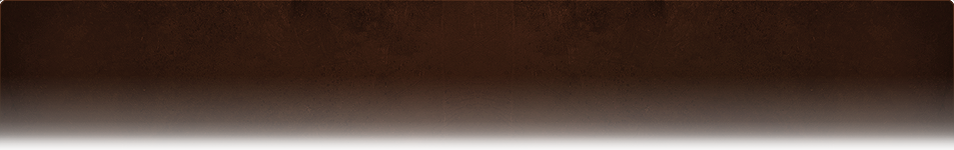
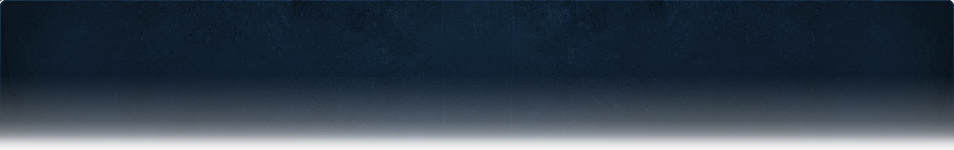
Web/Fix: Finished the Status New Style. + Minor Fixes.

diff --git a/wow/static/Themes/Default/css/wow.css b/wow/static/Themes/Default/css/wow.css
@@ -133,7 +133,7 @@ tr:hover .fansite-link,
 .ui-button span,
 .ui-cancel span { line-height: 38px;}
 .ui-button span { font-family: Arial, sans-serif; }
-.button1 span { background-image: url("../images/buttons/button-1.png"); background-repeat: no-repeat; color: #ffae00 }
+.button1 span { background-image: url("../images/buttons/button-1.png"); background-repeat: no-repeat; color: #2A8AC1 }
 .button1.hover span,
 .button1:hover span { color: #fff }
 .button1.disabled span,
@@ -361,7 +361,7 @@ tr:hover .fansite-link,
 #content .content-trail { height: 30px; padding: 10px 0 0 22px; }
 #content .content-header { padding: 25px; padding-top: 35px; }
 #content .content-header .header { color: #efe3d2; font: 52px/85% "Palatino Linotype", Georgia, Times, sans-serif; letter-spacing: -1.5px; text-shadow: #241209 0 0 5px; }
-#content .content-header .desc { width: 50%; margin-top: 25px; color: #A4704E; }
+#content .content-header .desc { width: 50%; margin-top: 25px; color: #FFFFFF; text-shadow: #030D33 0 0 5px; }
 #content .content-box-w434 { background: url("../images/content/box-w434-top.jpg") 0 0 no-repeat #21130a; width:434px; }
 #content .content-box-w434 .wrapper { background: url("../images/content/box-w434-bottom.jpg") 0 100% no-repeat; width:100%; padding:16px 0 19px 0; letter-spacing:-0.5px;}
 #content .content-box-w434 .inner-wrapper {margin:0 45px 0 19px;}
@@ -445,24 +445,23 @@ tr:hover .fansite-link,
 /* tables */
 .table { padding-bottom: 2px; background: url("../images/content/table-bg.gif") 50% 100% no-repeat }
 
-	/* real table */
-	.table table { width: 100%; table-layout: auto; }
-	.table thead th { padding: 0; background: #4d1a08 url("../images/content/table-header.gif") 0 100% repeat-x; border-bottom: 1px solid #06131B; white-space: nowrap; }
-	.table thead th, .table thead th a { color: #F5EBD1; font-weight: bold;}
-	.table thead th.align-center .sort-tab, .table thead th.align-center .sort-link { text-align: center; }
-	.table thead th.align-right .sort-tab, .table thead th.align-right .sort-link { text-align: right; }
-	.table tfoot th { padding: 10px }
-	.table tbody td { padding: 10px; color: #f5ebd1; }
-	.table tbody .row1 td { background: #2b1507; border-top: 1px solid #31190a }
-	.table tbody .row2 td { background: #231207; border-top: 1px solid #30190b }
-	.table tbody tr:hover td,
-	.table tbody tr.row-active td { background: #180c04; color: #fff }
-	.table tbody tr.no-results td { padding: 25px 50px; text-align: center; background: #231207; color: #C09A67 }
-	.table tbody tr.disabled td { opacity: 0.33333; }
-	.table.full-width td:first-child { padding-left: 20px; }
-	.table.full-width td:last-child { padding-right: 20px; }
-
-	.table em { color: #d2ae89; font-style: normal; }
+/* real table */
+.table table { width: 100%; table-layout: auto; }
+.table thead th { padding: 0; background: #081B26 url("../images/content/table-header.gif") 0 100% repeat-x; border-bottom: 1px solid #06131B; white-space: nowrap; }
+.table thead th, .table thead th a { color: #F5EBD1; font-weight: bold;}
+.table thead th.align-center .sort-tab, .table thead th.align-center .sort-link { text-align: center; }
+.table thead th.align-right .sort-tab, .table thead th.align-right .sort-link { text-align: right; }
+.table tfoot th { padding: 10px }
+.table tbody td { padding: 10px; color: #f5ebd1; }
+.table tbody .row1 td { background: #102033; border-top: 1px solid #0D1A28; }
+.table tbody .row2 td { background: #231207; border-top: 1px solid #30190b; }
+.table tbody tr:hover td,
+.table tbody tr.row-active td { background: #070F16; color: #fff }
+.table tbody tr.no-results td { padding: 25px 50px; text-align: center; background: #231207; color: #C09A67 }
+.table tbody tr.disabled td { opacity: 0.33333; }
+.table.full-width td:first-child { padding-left: 20px; }
+.table.full-width td:last-child { padding-right: 20px; }
+.table em { color: #d2ae89; font-style: normal; }
 
 	/* list version */
 	.table dl { padding: 0 10px; clear: both; height: 38px; line-height: 38px; background-color: #231207}
@@ -490,8 +489,8 @@ tr:hover .fansite-link,
 .table-filters.inline .filter-buttons { padding-top: 10px; }
 
 .table .sort-link,
-.table .sort-tab { display: block; padding: 8px 10px; text-align: left; border-left: 1px solid #7c2804; border-top: 1px solid #7c2804; border-right: 1px solid #391303 }
-.table .sort-link:hover { color: #fff; background: #6a240b url("../images/content/table-header-hover.gif") 0 100% repeat-x; border-top-color: #af3900; border-left-color: #af3900 }
+.table .sort-tab { display: block; padding: 8px 10px; text-align: left; border-left: 1px solid #1C577A; border-top: 1px solid #1C577A; border-right: 1px solid #1C577A; }
+.table .sort-link:hover { color: #fff; background: #184E6B url("../images/content/table-header-hover.gif") 0 100% repeat-x; border-top-color: #2B8CBC; border-left-color: #2B8CBC }
 .table .sort-link .arrow { padding-left: 10px; background: url("../images/content/table-sort-arrows.gif") 0 -10px no-repeat }
 .table .sort-link:hover .arrow { background-position: 0 -115px }
 .table .sort-link .arrow.up,
@@ -526,9 +525,9 @@ tr:hover .fansite-link,
 /* tab menu */
 .tab-menu { height: 30px }
 .tab-menu li { height: 30px; display: inline-block; margin-right: 3px }
-.tab-menu li a { float: left; display: block; height: 30px; line-height: 30px; padding: 0 10px; background: #2b1507; color: #ffae00; -moz-border-radius: 5px; -webkit-border-radius: 5px; border-radius: 5px; -moz-box-shadow: 0 0 5px #0e0905; -webkit-box-shadow: 0 0 5px #0e0905; box-shadow: 0 0 5px #0e0905; }
-.tab-menu li a:hover { color: #fff; background: #4e2f1b }
-.tab-menu li a.tab-active { background: #ffae00; font-weight: bold; color: #000; }
+.tab-menu li a { float: left; display: block; height: 30px; line-height: 30px; padding: 0 10px; background: #081B26; color: #2A8AC1; -moz-border-radius: 5px; -webkit-border-radius: 5px; border-radius: 5px; -moz-box-shadow: 0 0 5px #0e0905; -webkit-box-shadow: 0 0 5px #0e0905; box-shadow: 0 0 5px #0e0905; }
+.tab-menu li a:hover { color: #000000; background: #1A587A }
+.tab-menu li a.tab-active { background: #2A8AC1; font-weight: bold; color: #081B26; }
 
 /* wow colors */
 

diff --git a/game/status/index.php b/game/status/index.php
@@ -1,6 +1,8 @@
 <?php
-require_once("../../configs.php");?>
-
+require_once("../../configs.php");
+include_once("functions.d/GetGameTheme.php");
+$page_cat = "game";
+?>
 <!DOCTYPE html> 
 <html lang="en-gb">
 <!--[if lt IE 7]>      <html class="no-js lt-ie9 lt-ie8 lt-ie7"> <![endif]-->
@@ -12,13 +14,13 @@ require_once("../../configs.php");?>
 <meta content="IE=edge,chrome=1" http-equiv="X-UA-Compatible" />
 <meta name="description" content="<?php echo $website['description']; ?>">
 <meta name="keywords" content="<?php echo $website['keywords']; ?>">
-<link rel="shortcut icon" href="../../wow/static/local-common/images/favicons/wow.png" type="image/x-icon" />
-<link rel="stylesheet" href="../../wow/static/local-common/css/common.css?v17" />
-<link rel="stylesheet" href="../../wow/static/css/wow.css?v7" />
-<link rel="stylesheet" href="../../wow/static/css/status/realmstatus.css?v7" />
-<script src="../../wow/static/local-common/js/third-party/jquery-1.4.4-p1.min.js"></script>
-<script src="../../wow/static/local-common/js/core.js?v17"></script>
-<script src="../../wow/static/local-common/js/tooltip.js?v17"></script>
+<link rel="shortcut icon" href="<?php echo $website['root'];?>wow/static/local-common/images/favicons/wow.png" type="image/x-icon" />
+<?php GetGameTheme(); ?>
+<script src="http://code.jquery.com/jquery-1.10.1.min.js"></script>
+<script src="<?php echo $website['root']; ?>wow/static/local-common/js/third-party/jquery-1.4.4-p1.min.js"></script>
+<script src="<?php echo $website['root']; ?>wow/static/local-common/js/core.js?v15"></script>
+<script src="<?php echo $website['root']; ?>wow/static/local-common/js/tooltip.js?v15"></script>
+<script src="http://static.wowhead.com/widgets/power.js"></script>
 <style type="text/css">
 .Good {text-shadow: 0 1px 0 green, 0 0 3px green, 0 0 3px green, 0 0 8px green, 0 0 8px green; margin-top:3px;}
 .Chars {text-shadow: 1px 2px 6px #004;}
@@ -30,30 +32,10 @@ try { document.execCommand('BackgroundImageCache', false, true) } catch(e) {}
 //]]>
 </script>
 <![endif]-->
-<script type="text/javascript">
-//<![CDATA[
-Core.staticUrl = '../../wow/static';
-Core.sharedStaticUrl= '../../wow/static/local-common';
-Core.baseUrl = '../..//wow/en';
-Core.project = 'wow';
-Core.locale = 'en-gb';
-Core.buildRegion = 'eu';
-Core.shortDateFormat= 'dd/MM/Y';
-Core.loggedIn = false;
-Flash.videoPlayer = 'http://eu.media.blizzard.com/wow/player/videoplayer.swf';
-Flash.videoBase = 'http://eu.media.blizzard.com/wow/media/videos';
-Flash.ratingImage = 'http://eu.media.blizzard.com/wow/player/rating-pegi.jpg';
-var _gaq = _gaq || [];
-_gaq.push(['_setAccount', 'UA-544112-16']);
-_gaq.push(['_setDomainName', '.battle.net']);
-_gaq.push(['_trackPageview']);
-//]]>
-</script>
 </head>
 <body class="en-gb game-index"><div id="predictad_div" class="predictad" style="display: none; left: 788px; top: 104px; width: 321px; "></div>
-
 <div id="wrapper">
-<?php $page_cat="game"; include("../../header.php"); ?>
+<?php include("../../header.php"); ?>
 <div id="content">
 <div class="content-top">
 <div class="content-trail">
@@ -70,7 +52,7 @@ _gaq.push(['_trackPageview']);
 	</div>
 	<div id="realm-status">	
 <?php include("../../functions/status_nav.php"); ?>
-		<div class="filter-toggle">
+<div class="filter-toggle">
 			<a href="javascript:;" class="selected" onclick="RealmStatus.filterToggle(this)">	</a>
 		</div>
 	<span class="clear"><!-- --></span>
@@ -136,7 +118,7 @@ _gaq.push(['_trackPageview']);
 		</div>
 	</div>
 	<span class="clear"><!-- --></span>
-	<div id="all-realms">
+<div id="all-realms">
 	<div class="table full-width">
 		<table>
 			<thead>
@@ -263,20 +245,8 @@ _gaq.push(['_trackPageview']);
 					</tr>';
 					}
 
-					?>					
-				<!-- Removed or add the ( --> <!-- ) Only if you know what they are doing -->
-				<!-- Removed the ( --> <!-- ) Only if you know what they are doing -->
-				<!-- This is the 3rd (Third) Server on the Status, its Local -->
-					<!--<tr class="row1">
-						<td class="status" data-raw="up"><div class="status-icon up" onmouseover="Tooltip.show(this, 'Local')"></div></td>
-						<td class="name">Local</td>
-						<td class="type" data-raw="pvp"><span class="normal">(Normal)</span></td>
-						<td class="population" data-raw="Low"><span class="Low">Currently Local</span></td>
-						<td class="locale">Cataclysm</td>
-						<td class="queue" data-raw="false">Local</td>
-					</tr>-->
-				<!--Server No.3-->					
-				<tr class="no-results" style="display: none">
+					?>
+					<tr class="no-results" style="display: none">
 					<td colspan="6"><?php echo $status['noResults']; ?></td>
 				</tr>
 			</tbody>
@@ -288,5 +258,5 @@ _gaq.push(['_trackPageview']);
 </div>
 </div>
 <?php include("../../footer.php"); ?>
-<div id="fansite-menu" class="ui-fansite"></div><div id="menu-container"></div><ul class="ui-autocomplete ui-menu ui-widget ui-widget-content ui-corner-all" role="listbox" aria-activedescendant="ui-active-menuitem" style="z-index: 6; top: 0px; left: 0px; display: none; "></ul></body>
+</body>
 </html>

diff --git a/footer.php b/footer.php
@@ -188,7 +188,7 @@ echo '>'
 <small><?php echo $copyright3['copyright3']; ?>.<br /><?php echo $copyright['copyright']; ?> - <?php echo date('Y'); ?> <?php echo $website['title']; ?>.<br /><?php echo $copyright4['copyright4']; ?></small>
 </center>
 </div>
-<center><a class="powered" href="http://www.strawberry-pr0jcts.com/" ></a></center>
+<center><a class="powered" href="http://aquaflame.org" ></a></center>
 </div>
 <span class="clear"><!-- --></span>
 </div>
@@ -206,6 +206,21 @@ echo '>'
 <a href="<?php echo $website['root'];?>shop/" class="service-link"><?php echo $Services['Services']; ?></a>
 </li>
 <li class="service-cell service-account"><a href="<?php echo $website['root'];?>account/" class="service-link" tabindex="50" accesskey="3"><?php echo $Account['Account']; ?></a></li>
+<?php
+if (!isset($_SESSION['username']))	{
+	}
+else{
+	mysql_select_db($server_adb);
+	$check_query = mysql_query("SELECT gmlevel from account inner join account_access on account.id = account_access.id where username = '".strtoupper($_SESSION['username'])."'") or die(mysql_error());
+    $login = mysql_fetch_assoc($check_query);
+	if($login['gmlevel'] < 3){
+	}
+	else 
+	{
+	echo '<li class="service-cell service-account"><a href="'.$website['address'].''.$website['root'].'admin" class="service-link" tabindex="50" accesskey="3">ACP (Admin)</a></li>';
+	}
+}
+?>
 <li class="service-cell service-support service-support-enhanced">
 <a href="#support" class="service-link service-link-dropdown" tabindex="50" accesskey="4" id="support-link" onclick="return false" style="cursor: progress" rel="javascript"><?php echo $Support['Support']; ?><span class="no-support-tickets" id="support-ticket-count"></span></a>
 <div class="support-menu" id="support-menu" style="display:none;">
@@ -283,30 +298,14 @@ shim.style.display = 'block';
 <ul>
 <li><a href="#" tabindex="55"><?php echo $Retrieve['Retrieve']; ?></a></li>
 <li><a href="<?php GetClientLink(); ?>" tabindex="55"><?php echo $Client_down3['Client_down3']; ?></a></li>
-<?php
-if (!isset($_SESSION['username']))	
-	{
-	}
-else 
-{
-	mysql_select_db($server_adb);
-	$check_query = mysql_query("SELECT gmlevel from account inner join account_access on account.id = account_access.id where username = '".strtoupper($_SESSION['username'])."'") or die(mysql_error());
-    $login = mysql_fetch_assoc($check_query);
-	if($login['gmlevel'] < 3)
-		{
-	
-		}
-	else 
-	{
-	echo '<li><a href="'.$website['address'].''.$website['root'].'admin" tabindex="55">Admin Panel</li>';
-	}
-}
-
-
-?>
 </ul>
 </div>
 <span class="clear"><!-- --></span>
+</div>
+</div>
+</li>
+</ul>
+</div>
 <!--[if IE 6]> <iframe id="explore-shim" src="javascript:false;" frameborder="0" scrolling="no" style="display: block; position: absolute; top: 0; left: 9px; width: 409px; height: 400px; z-index: -1;"></iframe>
 <script type="text/javascript">
 //<![CDATA[
@@ -428,10 +427,8 @@ other: 'Other'
 };
 //]]>
 </script>
-
 <!doctype html>
 <script src="<?php echo $website['root'];?>wow/static/local-common/js/search.js?v37"></script>
-
 <script type="text/javascript">
 //<![CDATA[
 Core.load("<?php echo $website['root']; ?>wow/static/local-common/js/third-party/jquery-ui-1.8.6.custom.min.js?v37");
@@ -440,8 +437,6 @@ Login.embeddedUrl = '<?php echo $website['root']; ?>loginframe.php';
 });
 //]]>
 </script>
-
-
 <script src="<?php echo $website['root'];?>wow/static/local-common/js/menu.js?v37"></script>
 <script src="<?php echo $website['root'];?>wow/static/js/wow.js?v19"></script>
 <script type="text/javascript">
@@ -452,27 +447,9 @@ Menu.initialize('<?php echo $website['root'];?>data/menu.json');
 //]]>
 </script>
 <script src="<?php echo $website['root'];?>wow/static/local-common/js/cms.js?v37"></script>
-
 <!--[if lt IE 8]> <script type="text/javascript" src="/wow/static/local-common/js/third-party/jquery.pngFix.pack.js?v37"></script>
 <script type="text/javascript">
 //<![CDATA[
 $('.png-fix').pngFix(); //]]>
 </script>
 <![endif]-->
-<script type="text/javascript">
-//<![CDATA[
-(function() {
-var ga = document.createElement('script');
-var src = "https://ssl.google-analytics.com/ga.js";
-if ('http:' == document.location.protocol) {
-src = "http://www.google-analytics.com/ga.js";
-}
-ga.type = 'text/javascript';
-ga.setAttribute('async', 'true');
-ga.src = src;
-var s = document.getElementsByTagName('script');
-s = s[s.length-1];
-s.parentNode.insertBefore(ga, s.nextSibling);
-})();
-//]]>
-</script>

diff --git a/game/status/functions.d/GetGameTheme.php b/game/status/functions.d/GetGameTheme.php
@@ -1,0 +1,15 @@
+         
+
+<?php
+	function GetGameTheme() {
+	$con=mysqli_connect(DBHOST,DBUSER,DBPASS,DB);
+	$query= "SELECT * FROM themes WHERE active=1";
+	$result=mysqli_query($con,$query);
+	while($row=mysqli_fetch_array($result))
+	{
+	$CSS_LINK = $row['css_link'];
+	echo '<link rel="stylesheet" href="../../wow/static/Themes/'.$CSS_LINK.'/local-common/css/common.css?v17" />';
+	echo '<link rel="stylesheet" href="../../wow/static/Themes/'.$CSS_LINK.'/css/wow.css?v7" />';
+	echo '<link rel="stylesheet" href="../../wow/static/Themes/'.$CSS_LINK.'/css/status/realmstatus.css?v7" />';
+}
+}
